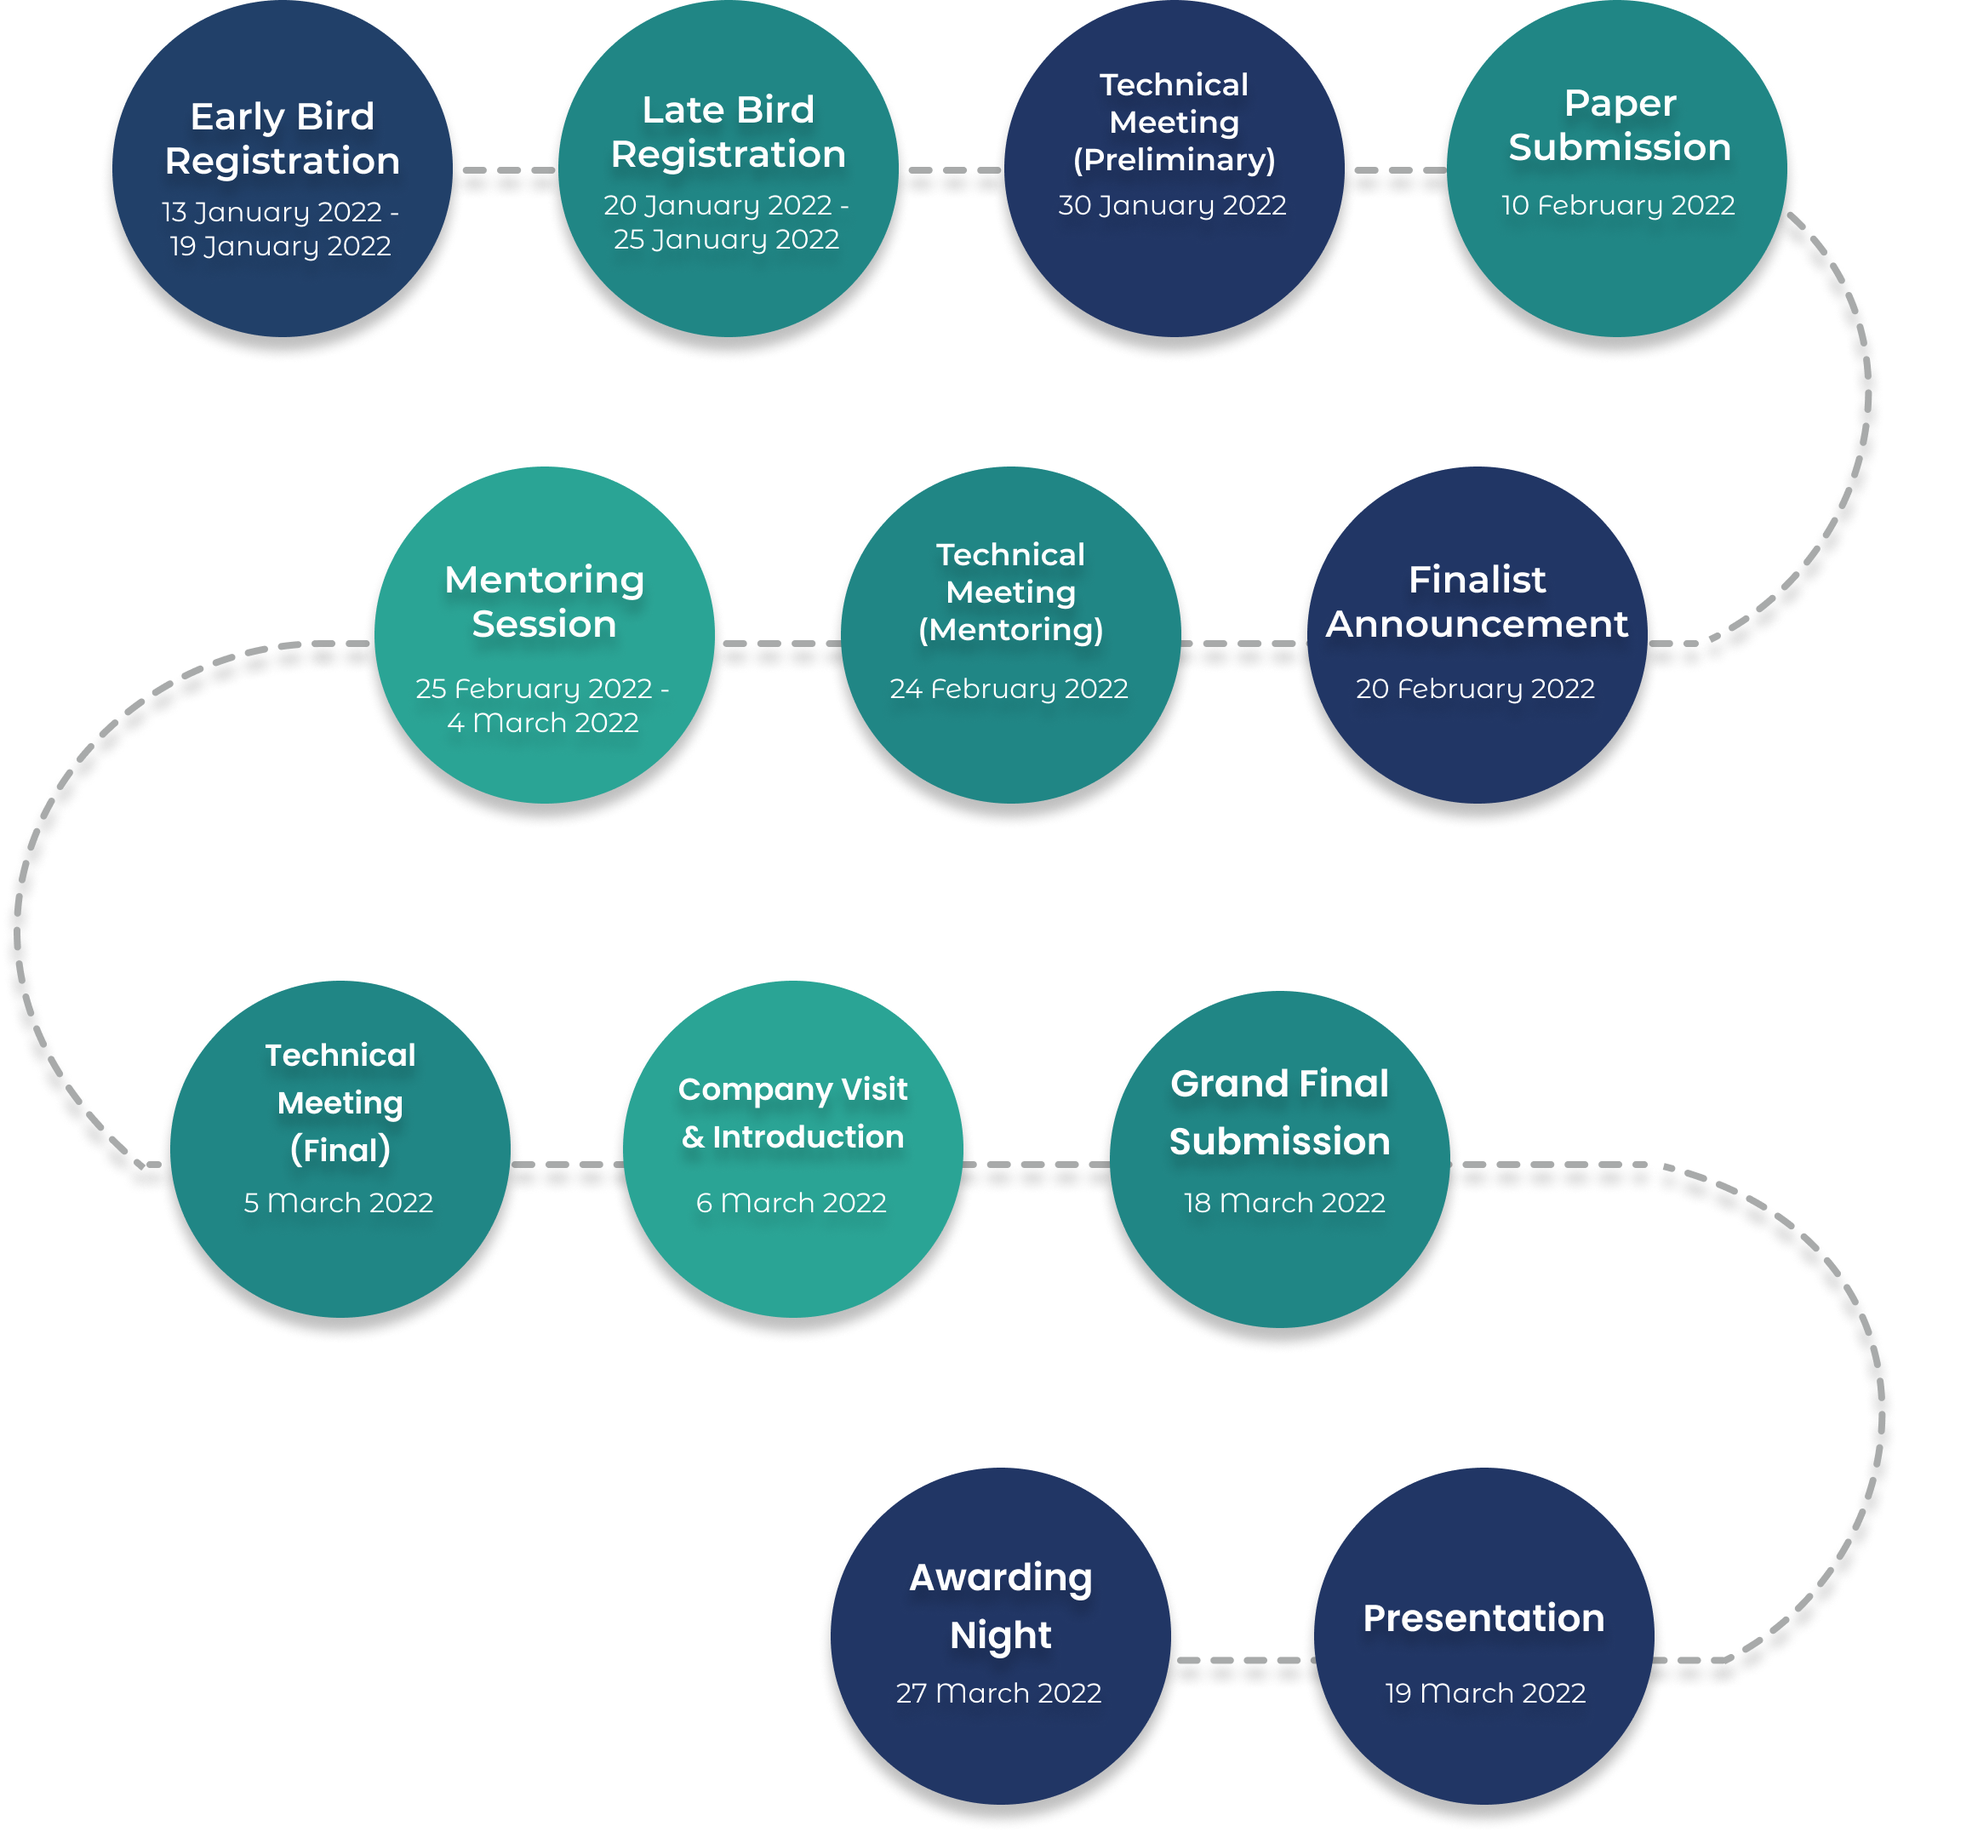
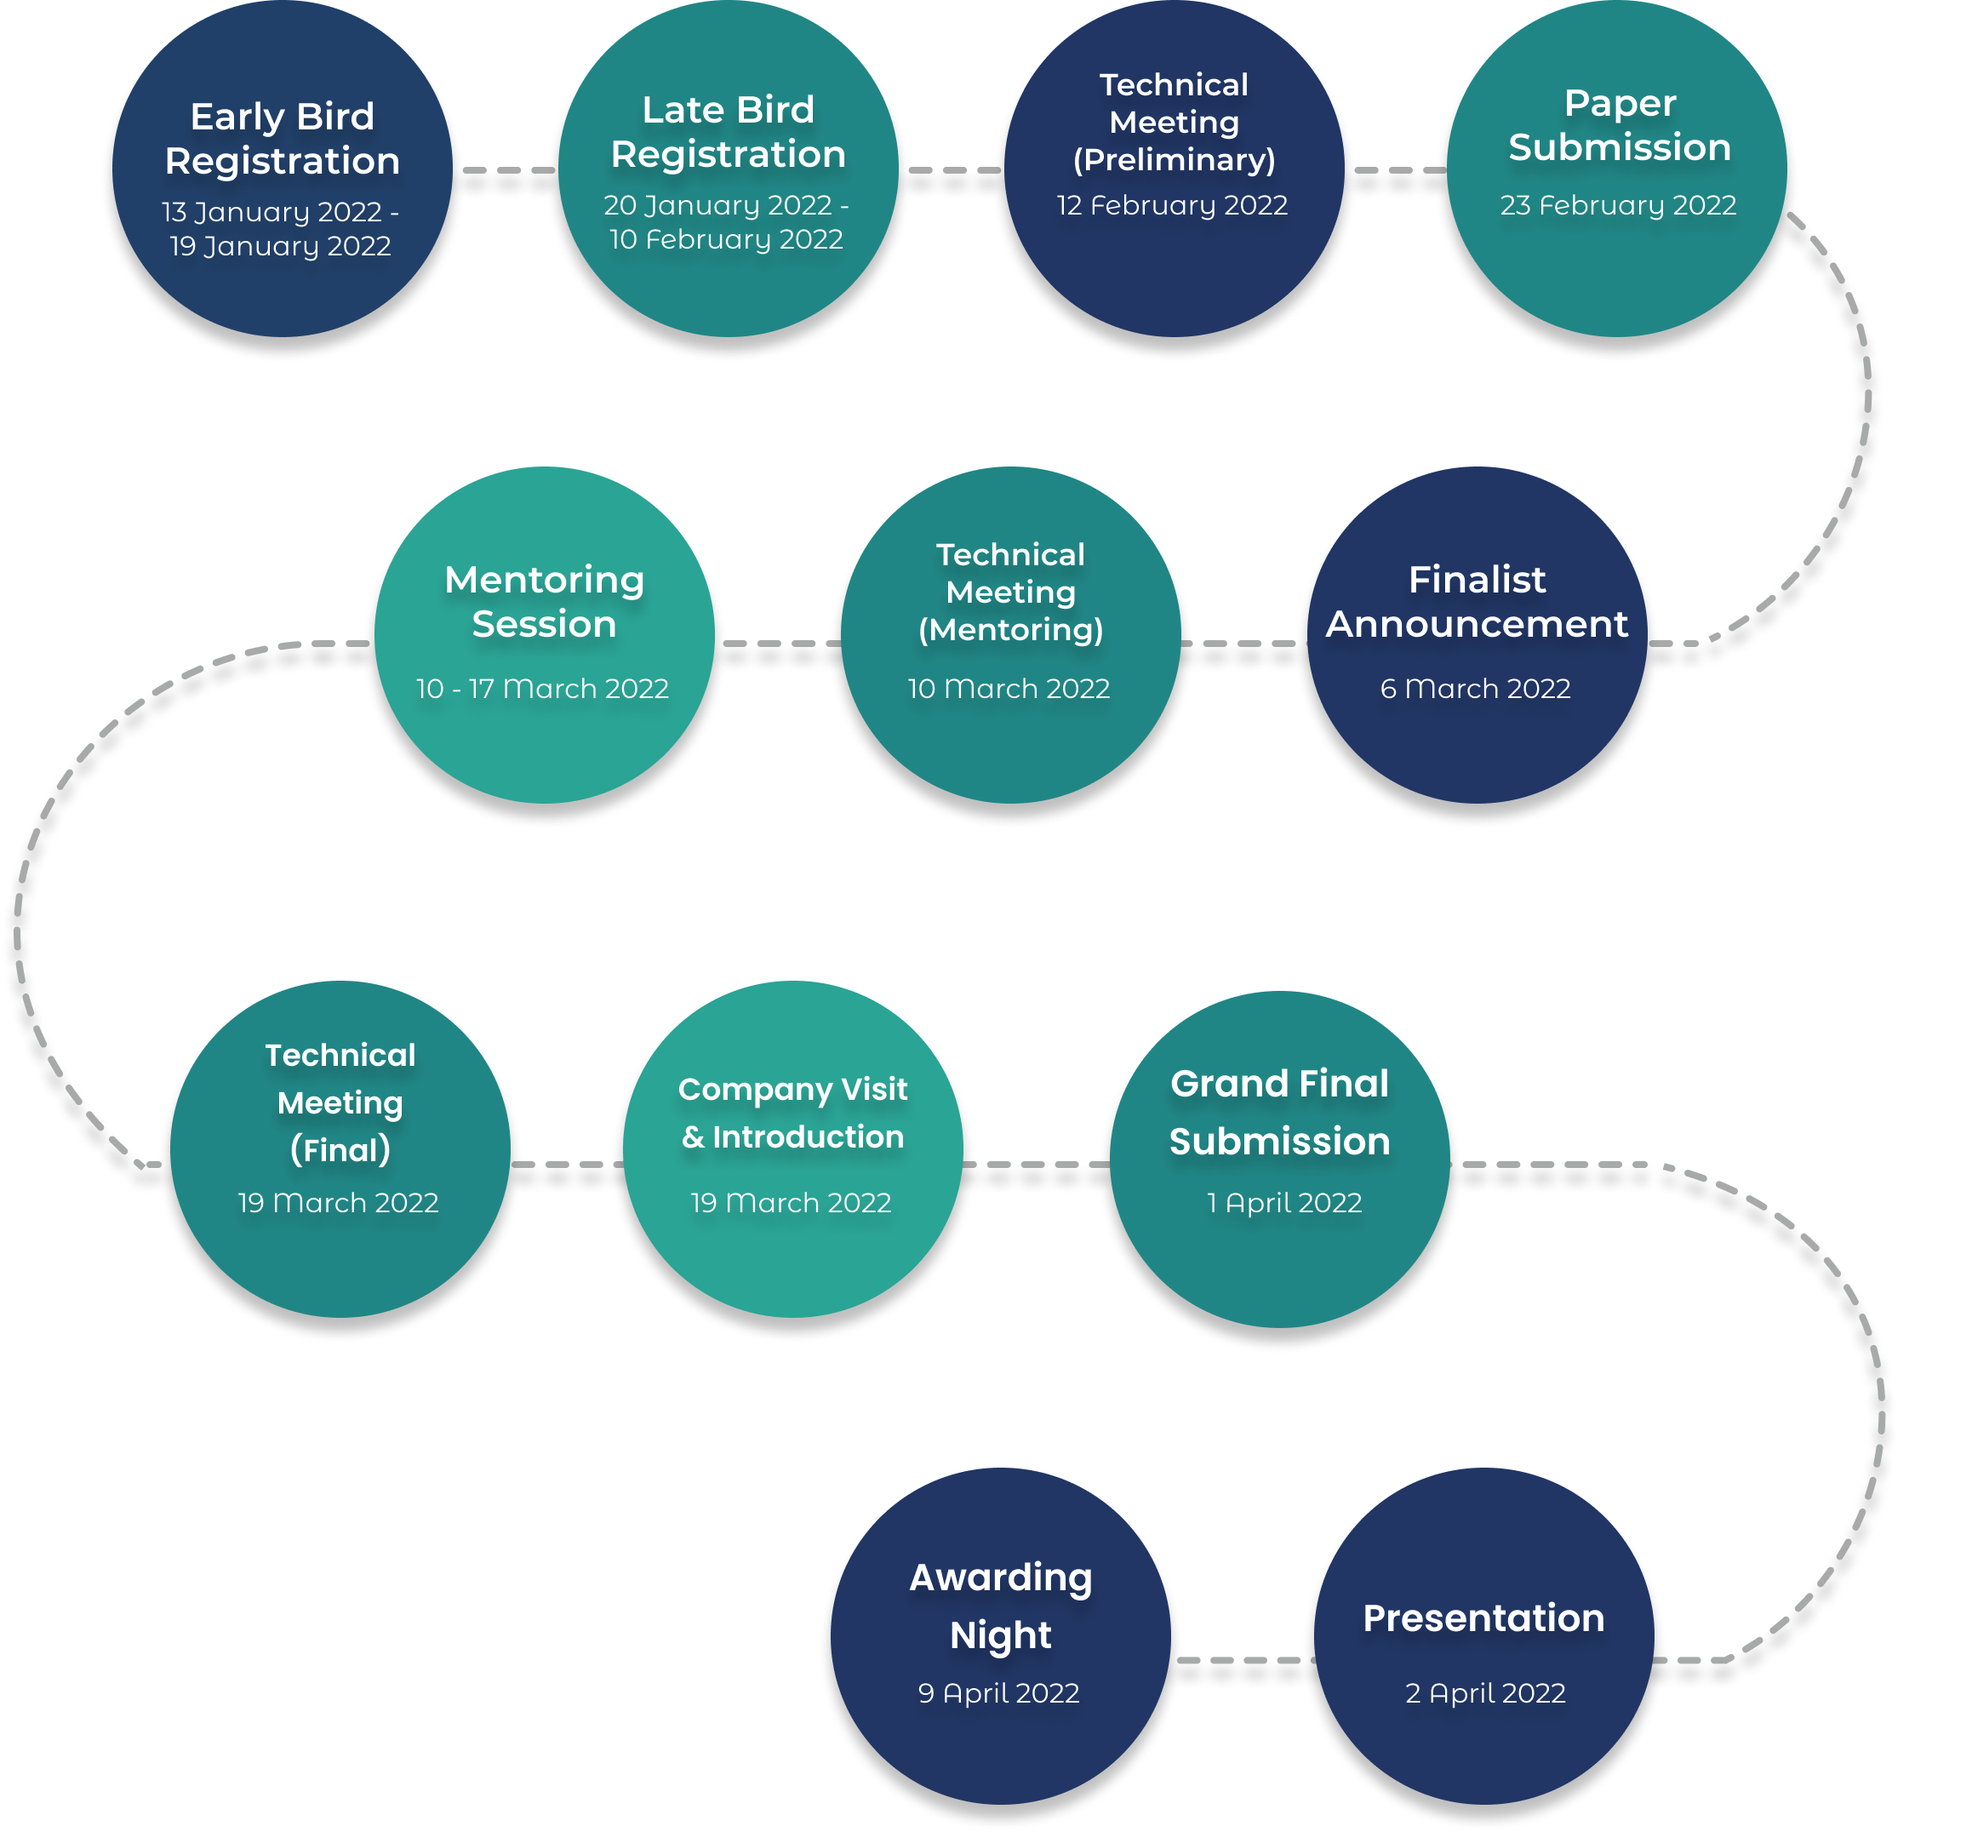
change timeline

diff --git a/frontend/src/components/Competition/Faq.js b/frontend/src/components/Competition/Faq.js
@@ -78,10 +78,14 @@ const Faq = () => {
           </h2>
           <AccordionPanel pb={30} className="faq-desc">
             Early Bird Registration: 13 January - 19 January <br />
-            Late Bird Registration: 20 January - 25 January <br />
+            Late Bird Registration: 20 January - 10 February <br />
             <br />
             Entry fee payment is transferred to the following account: <br />
-            Bank XXX 123456789 on behalf of XXXXXXX.
+            <ul>
+              <li>Bank BNI 0634360281 on behalf of Monica Andini</li>
+              <li>Gopay 081316262145 on behalf of Monica Andini</li>
+              <li>Ovo 081316262145 on behalf of Monica Andini</li>
+            </ul>
             <br />
             Please add the number 01 if you register in the marketing sector, 02
             for operations, and 03 for EHS behind your nominal registration fee.

diff --git a/frontend/src/pages/Register.js b/frontend/src/pages/Register.js
@@ -163,7 +163,7 @@ const Register = () => {
         &emsp;&emsp;Date: 13 January - 19 January 2022 <br />
         &emsp;&emsp;Entry Fee : Rp 35.000 <br />
         &emsp;- Regular Registration <br />
-        &emsp;&emsp;Date: 20 January - 25 January 2022 <br />
+        &emsp;&emsp;Date: 20 January - 10 February 2022 <br />
         &emsp;&emsp;Entry Fee : Rp 45.000 <br />
         <br />
         Entry Fee Payment is transferred to the following account:
